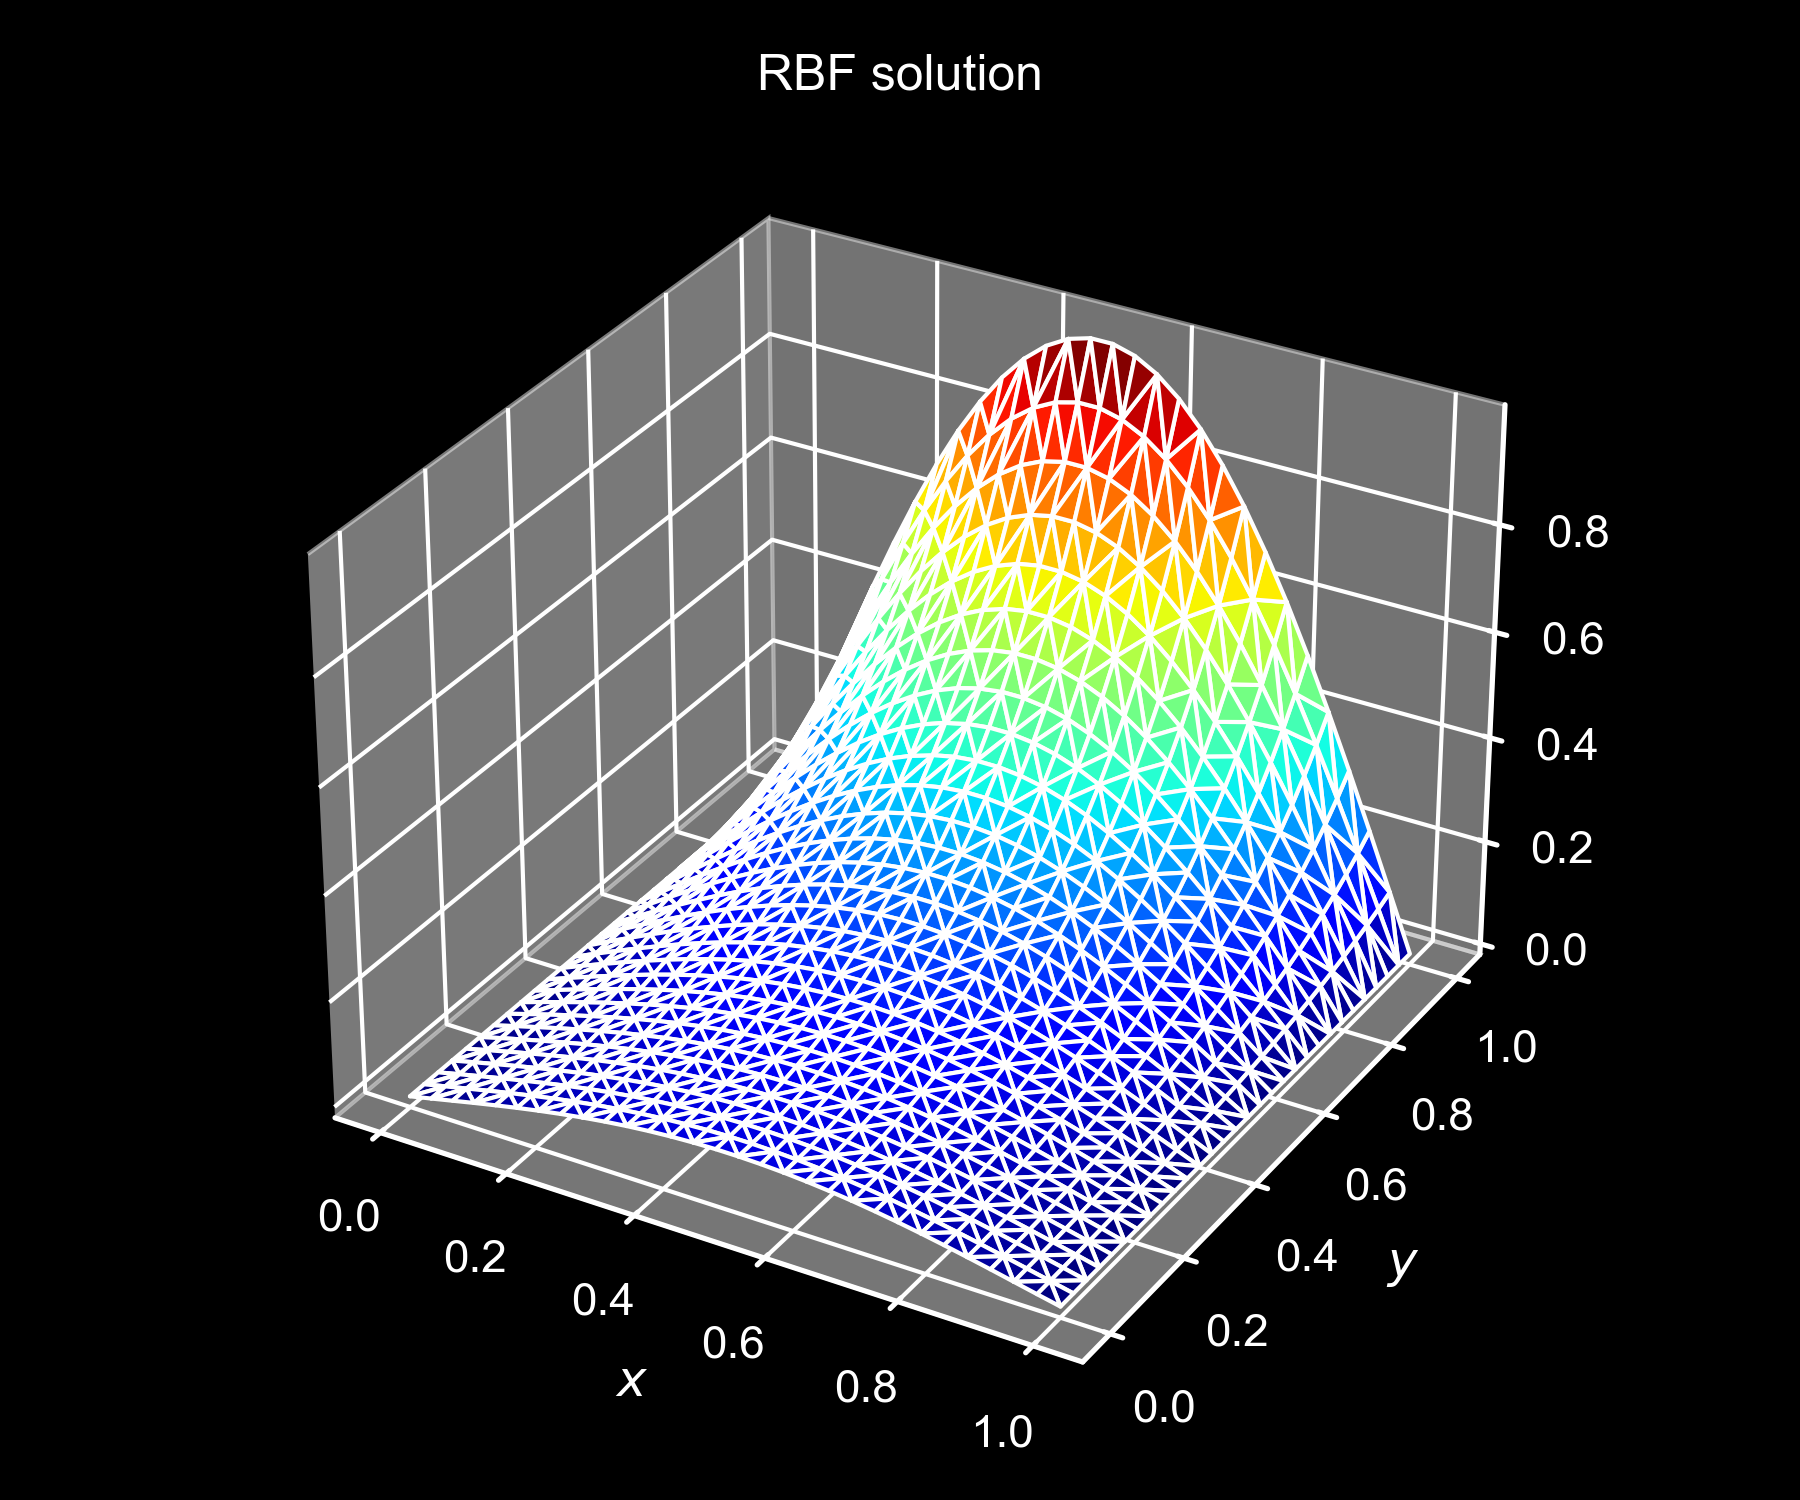
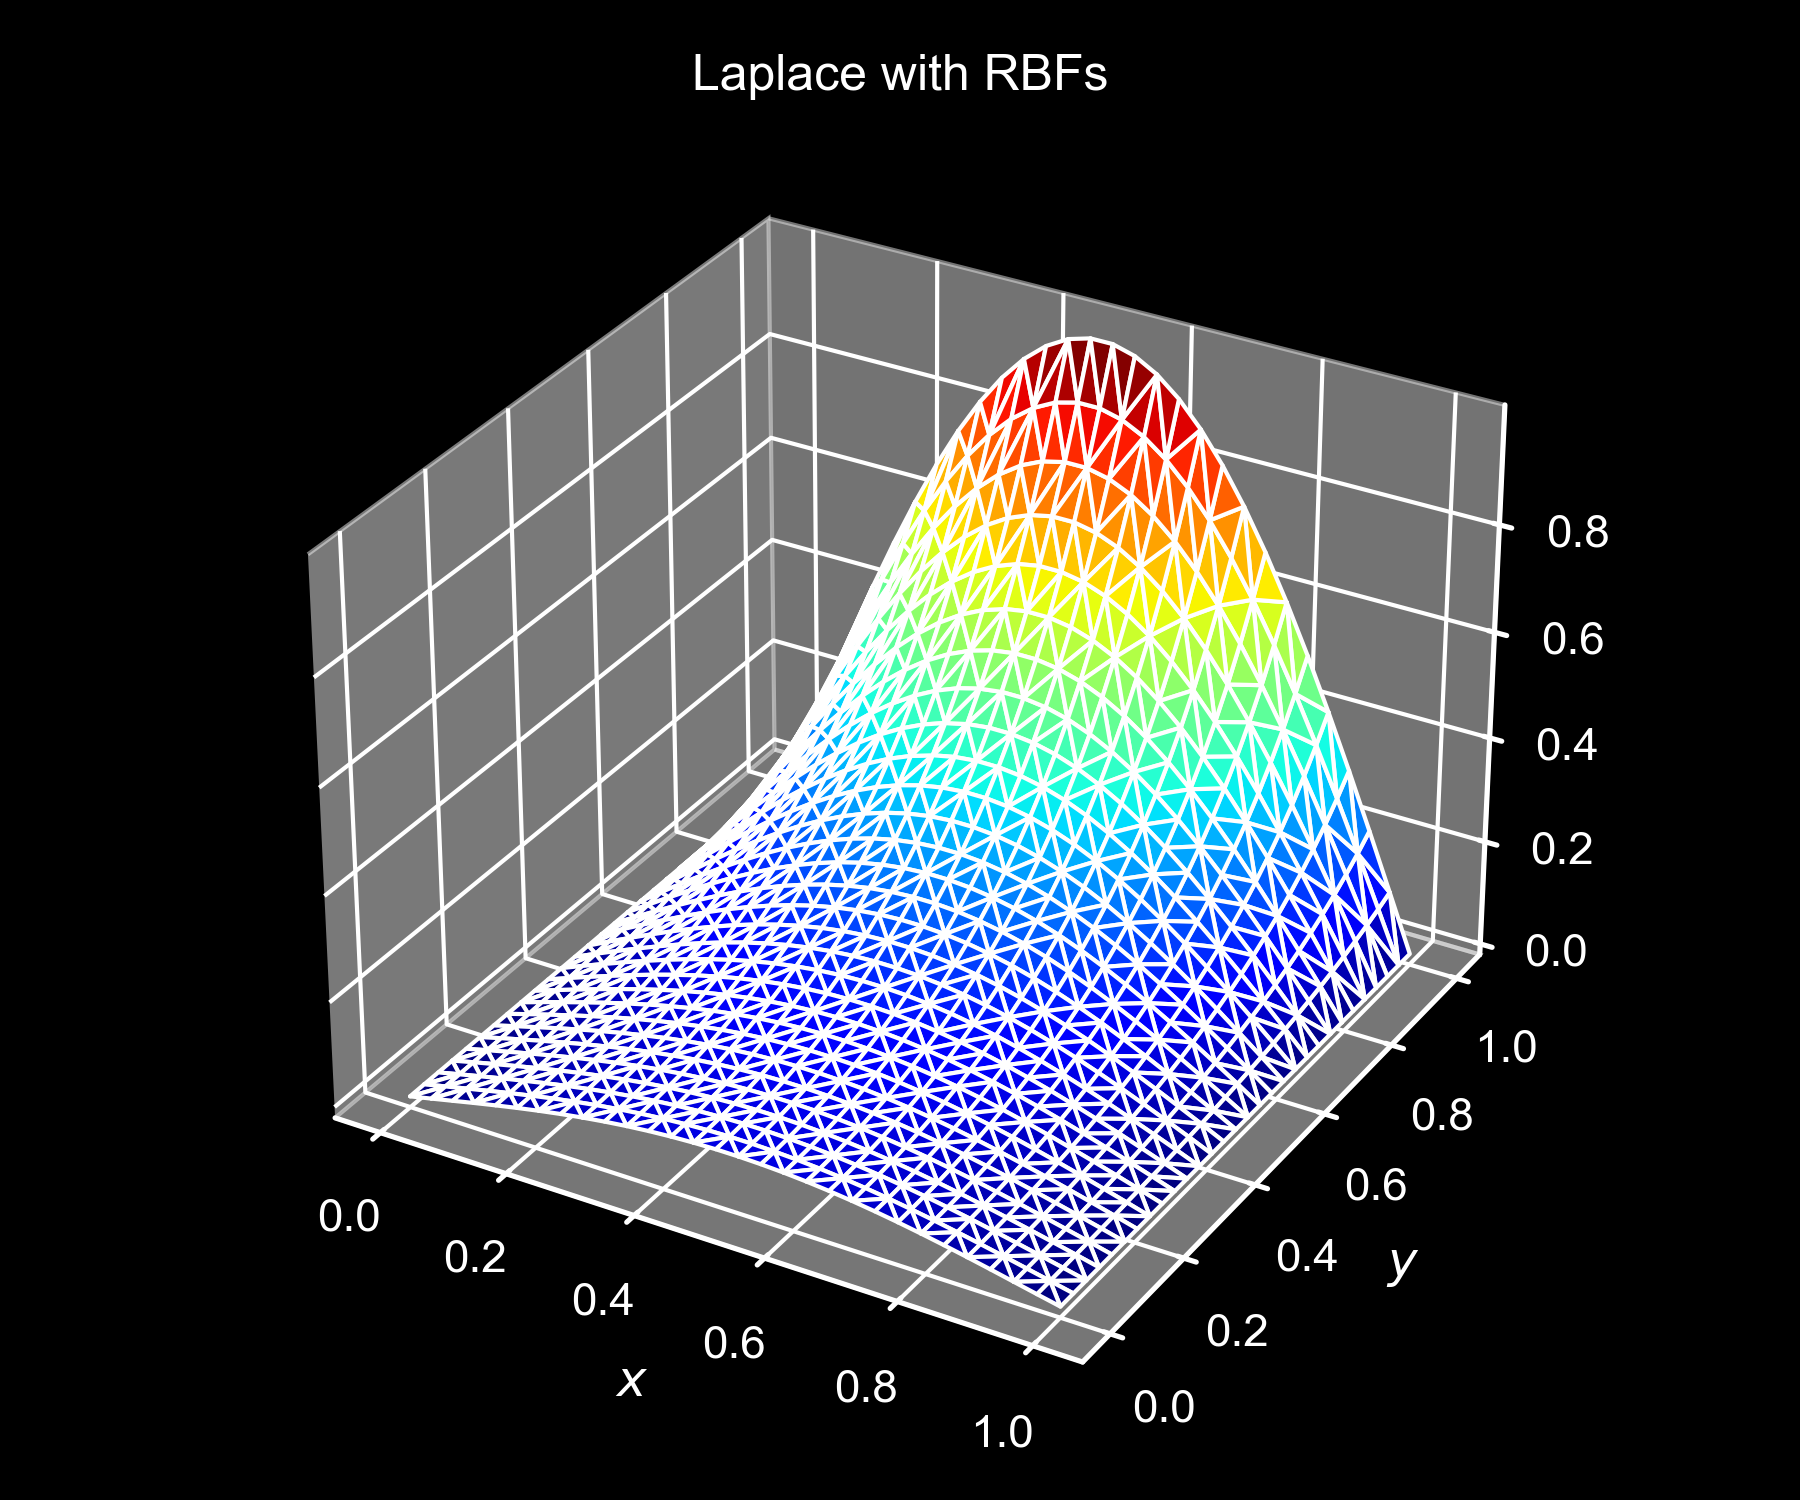
Uploading project to PyPI

Changed region(s): [[0.3733, 0.0307, 0.6222, 0.0613], [0.7467, 0.6133, 0.7778, 0.644]]

diff --git a/demos/Burgers/01_burgers_ode.py b/demos/Burgers/01_burgers_ode.py
@@ -59,7 +59,6 @@ MAX_DEGREE = 2
 
 # DT = 1e-3
 NB_TIMESTEPS = 200
-PLOT_EVERY = 2
 
 Nx = 10
 Ny = 10
@@ -142,43 +141,12 @@ def burgers_vector_field(t, U, *args):
 
 
 
-def RK4(fun, t_span, y0, *args, t_eval=None, subdivisions=1, **kwargs):
-    """ Perform numerical integration with a time step divided by the evaluation subdivision factor (Not necessarily equally spaced). If we get NaNs, we can try to increasing the subdivision factor for finer time steps."""
-    if t_eval is None:
-        if t_span[0] is None:
-            t_eval = jnp.array([t_span[1]])
-            raise Warning("t_span[0] is None. Setting t_span[0] to 0.")
-        elif t_span[1] is None:
-            raise ValueError("t_span[1] must be provided if t_eval is not.")
-        else:
-            t_eval = jnp.array(t_span)
-
-    hs = t_eval[1:] - t_eval[:-1]
-    t_ = t_eval[:-1, None] + jnp.arange(subdivisions)[None, :]*hs[:, None]/subdivisions
-    t_solve = jnp.concatenate([t_.flatten(), t_eval[-1:]])
-    eval_indices = jnp.arange(0, t_solve.size, subdivisions)
-
-    def step(state, t):
-        t_prev, y_prev = state
-        h = t - t_prev
-        k1 = h * fun(t_prev, y_prev, *args)
-        k2 = h * fun(t_prev + h/2., y_prev + k1/2., *args)
-        k3 = h * fun(t_prev + h/2., y_prev + k2/2., *args)
-        k4 = h * fun(t + h, y_prev + k3, *args)
-        y = y_prev + (k1 + 2*k2 + 2*k3 + k4) / 6.
-        return (t, y), y
-
-    _, ys = jax.lax.scan(step, (t_solve[0], y0), t_solve[:])
-    return ys[eval_indices, :]
-
-
-
 
 start = time.time()
 
 U0 = jnp.concatenate([u0, v0])
 
-t_span = [0, 1]
+t_span = [0, 20]
 t_eval = jnp.linspace(0, *t_span, NB_TIMESTEPS+1)
 Us = RK4(burgers_vector_field, t_span=t_span, y0=U0, t_eval=t_eval, subdivisions=1)
 
@@ -196,11 +164,11 @@ print(f"Walltime: {minutes} minutes {seconds:.2f} seconds")
 
 
 # %%
-ulist = Us[::NB_TIMESTEPS//10, :Nx*Ny]
-filename = DATAFOLDER + "burgers_rk4_u.mp4"
-cloud.animate_fields([ulist], cmaps="coolwarm", filename=filename, levels=200, duration=10, figsize=(7.5,6), titles=["Burgers with RBFs - u"]);
+ulist = Us[::NB_TIMESTEPS//200, :Nx*Ny]
+filename = DATAFOLDER + "burgers_rk4_u.gif"
+cloud.animate_fields([ulist], cmaps="coolwarm", filename=filename, levels=200, duration=5, figsize=(7.5,6), titles=["Burgers with RBFs"]);
 
-U_norm = Us[::NB_TIMESTEPS//10].reshape(-1, 2, Nx*Ny)
-normlist = jnp.linalg.norm(U_norm, axis=1)
-filename = DATAFOLDER + "burgers_rk4_norm.mp4"
-cloud.animate_fields([normlist], cmaps="coolwarm", filename=filename, levels=200, duration=10, figsize=(7.5,6), titles=["Burgers with RBFs - norm"]);
+# U_norm = Us[::NB_TIMESTEPS//10].reshape(-1, 2, Nx*Ny)
+# normlist = jnp.linalg.norm(U_norm, axis=1)
+# filename = DATAFOLDER + "burgers_rk4_norm.mp4"
+# cloud.animate_fields([normlist], cmaps="coolwarm", filename=filename, levels=200, duration=10, figsize=(7.5,6), titles=["Burgers with RBFs - norm"]);

diff --git a/demos/Laplace/00_laplace_with_rbf.py b/demos/Laplace/00_laplace_with_rbf.py
@@ -134,16 +134,16 @@ print("MSE on Neumann boundary:", jnp.mean(error_neumann**2))
 
 
 
-### Visualisation
-fig = plt.figure(figsize=(6*3,5))
-ax1= fig.add_subplot(1, 3, 1, projection='3d')
-ax2 = fig.add_subplot(1, 3, 2, projection='3d')
-ax3 = fig.add_subplot(1, 3, 3, projection='3d')
-cloud.visualize_field(rbf_sol, cmap="jet", projection="3d", title="RBF solution", ax=ax1);
-cloud.visualize_field(exact_sol, cmap="jet", projection="3d", title="Analytical solution", ax=ax2);
-# cloud.visualize_field(exact_sol, cmap="jet", projection="2d", title="Analytical solution", ax=ax2);
-cloud.visualize_field(error, cmap="magma", projection="3d", title="MSE error", ax=ax3);
-plt.show()
+# ### Visualisation
+# fig = plt.figure(figsize=(6*3,5))
+# ax1= fig.add_subplot(1, 3, 1, projection='3d')
+# ax2 = fig.add_subplot(1, 3, 2, projection='3d')
+# ax3 = fig.add_subplot(1, 3, 3, projection='3d')
+# cloud.visualize_field(rbf_sol, cmap="jet", projection="3d", title="RBF solution", ax=ax1);
+# cloud.visualize_field(exact_sol, cmap="jet", projection="3d", title="Analytical solution", ax=ax2);
+# # cloud.visualize_field(exact_sol, cmap="jet", projection="2d", title="Analytical solution", ax=ax2);
+# cloud.visualize_field(error, cmap="magma", projection="3d", title="MSE error", ax=ax3);
+# plt.show()
 
 
 ## Write stuff to tensorboard
@@ -157,9 +157,9 @@ plt.show()
 # writer.close()
 
 # %%
-# fig = plt.figure(figsize=(6*1,5))
-# ax= fig.add_subplot(1, 1, 1, projection='3d')
-# cloud.visualize_field(rbf_sol, cmap="jet", projection="3d", title="RBF solution", ax=ax);
-# plt.show()
-# ## Savefig
-# fig.savefig(DATAFOLDER+"laplace.png", dpi=300)
+fig = plt.figure(figsize=(6*1,5))
+ax= fig.add_subplot(1, 1, 1, projection='3d')
+cloud.visualize_field(rbf_sol, cmap="jet", projection="3d", title="Laplace with RBFs", ax=ax);
+plt.show()
+## Savefig
+fig.savefig(DATAFOLDER+"laplace.png", dpi=300)

diff --git a/demos/Advection/01_adv_diff_periodic.py b/demos/Advection/01_adv_diff_periodic.py
@@ -39,7 +39,7 @@ PLOT_EVERY = 10
 
 ## Diffusive constant
 K = 0.08
-VEL = jnp.array([-100.0, 0.0])
+VEL = jnp.array([100.0, 0.0])
 
 Nx = 25
 Ny = 25
@@ -70,7 +70,7 @@ def my_diff_operator(x, center=None, rbf=None, monomial=None, fields=None):
     return (val/DT) + jnp.dot(VEL, grad) - K*lap
 
 def my_rhs_operator(x, centers=None, rbf=None, fields=None):
-    return value(x, fields[:,0], centers, RBF) / DT     ## TODO value ?
+    return value(x, fields[:,0], centers, rbf) / DT
 
 d_zero = lambda x: 0.
 boundary_conditions = {"South":d_zero, "West":d_zero, "North":d_zero, "East":d_zero}
@@ -87,7 +87,7 @@ boundary_conditions = {"South":d_zero, "West":d_zero, "North":d_zero, "East":d_z
 def gaussian(x, y, x0, y0, sigma):
     return jnp.exp(-((x-x0)**2 + (y-y0)**2) / (2*sigma**2))
 xy = cloud.sorted_nodes
-u0 = gaussian(xy[:,0], xy[:,1], 0.75, 0.5, 1/10)
+u0 = gaussian(xy[:,0], xy[:,1], 0.35, 0.5, 1/10)
 
 
 
@@ -104,7 +104,7 @@ ulist = [u]
 start = time.time()
 
 for i in range(1, NB_TIMESTEPS+1):
-    ufield = pde_solver(diff_operator=my_diff_operator,
+    ufield = pde_solver_jit(diff_operator=my_diff_operator,
                         rhs_operator = my_rhs_operator,
                         rhs_args=[u],
                         cloud = cloud,

diff --git a/demos/Burgers/00_burgers.py b/demos/Burgers/00_burgers.py
@@ -34,7 +34,7 @@ RBF = partial(polyharmonic, a=3)
 MAX_DEGREE = 2
 
 DT = 1e-3
-NB_TIMESTEPS = 200
+NB_TIMESTEPS = 100
 PLOT_EVERY = 20
 
 ## Diffusive constant
@@ -155,12 +155,12 @@ print(f"Walltime: {minutes} minutes {seconds:.2f} seconds")
 # %%
 
 ulist = [sol[0] for sol in sol_list]
-filename = DATAFOLDER + "burgers_u.mp4"
-cloud.animate_fields([ulist], cmaps="coolwarm", filename=filename, levels=200, duration=10, figsize=(7.5,6), titles=["Burgers with RBFs - u"]);
+filename = DATAFOLDER + "burgers_u.gif"
+cloud.animate_fields([ulist[:65:2]], cmaps="coolwarm", filename=filename, levels=200, duration=5, figsize=(7.5,6), titles=["Burgers with RBFs"]);
 
-normlist = [jnp.sqrt(sol[0]**2 + sol[1]**2) for sol in sol_list]
-filename = DATAFOLDER + "burgers_norm.mp4"
-cloud.animate_fields([normlist], cmaps="coolwarm", filename=filename, levels=200, duration=10, figsize=(7.5,6), titles=["Burgers with RBFs - norm"]);
+# normlist = [jnp.sqrt(sol[0]**2 + sol[1]**2) for sol in sol_list]
+# filename = DATAFOLDER + "burgers_norm.mp4"
+# cloud.animate_fields([normlist], cmaps="coolwarm", filename=filename, levels=200, duration=10, figsize=(7.5,6), titles=["Burgers with RBFs - norm"]);
 
 
 # %%

diff --git a/updes/cloud.py b/updes/cloud.py
@@ -270,8 +270,8 @@ class Cloud(object):
 
 
     def animate_fields(self, fields, filename=None, titles="Field", xlabel=r'$x$', ylabel=r'$y$', levels=50, figsize=(6,5), cmaps="jet", cbarsplit=50, duration=5, **kwargs):
-        import matplotlib
-        matplotlib.use('Agg')
+        import matplotlib as mpl
+        mpl.use('Agg')
         import matplotlib.pyplot as plt
         from matplotlib.animation import FuncAnimation
         """Animation of each field in the list of fields on the cloud of points"""
@@ -343,6 +343,9 @@ class Cloud(object):
             writer = 'ffmpeg' if filename.endswith('.mp4') else 'pillow'
             anim.save(filename, writer=writer, fps=fps)
             print("Animation sucessfully saved at:", filename)
+
+        # ## Reset the backend to one that has GUI support
+        # mpl.use('Qt5Agg')
 
         return ax
 

diff --git a/updes/assembly.py b/updes/assembly.py
@@ -459,6 +459,7 @@ def assemble_q(operator:callable, boundary_conditions:dict, cloud:Cloud, rbf:cal
                 fields_coeffs.append(core_compute_coefficients(field, cloud, rbf, M))
             else:
                 fields_coeffs.append(field)
+        fields_coeffs = jnp.stack(fields_coeffs, axis=-1)
     else:
         fields_coeffs = None
 
@@ -467,7 +468,6 @@ def assemble_q(operator:callable, boundary_conditions:dict, cloud:Cloud, rbf:cal
     nodes = cloud.sorted_nodes
     internal_ids = jnp.arange(Ni)
     q = q.at[internal_ids].set(operator_vec(nodes[internal_ids], nodes, rbf, fields_coeffs))
-
 
     ## Facet nodes
     for f_id in cloud.facet_types.keys():

diff --git a/updes/config.py b/updes/config.py
@@ -5,11 +5,11 @@ import jax.numpy as jnp
 RBF = None          ## Default radial basis function
 MAX_DEGREE = None              ## Max degree for monomials
 DIM = 2                     ## Default problem dimension
-__version__ = "0.1.0"       ## Package version  ## TODO check if okay to do this here
+__version__ = "1.0.0"       ## Package version  ## TODO check if okay to do this here
 
 PREALLOCATE = False
 if not PREALLOCATE:
-    os.environ['XLA_PYTHON_CLIENT_PREALLOCATE'] = "false"       ## Preallocate 90% of memory
+    os.environ['XLA_PYTHON_CLIENT_PREALLOCATE'] = "false"
 
 
 FLOAT64 = True

diff --git a/README.md b/README.md
@@ -1,23 +1,23 @@
 # 𝕌pdes
 
-𝕌pdes is a general-purpose library for mesh-free PDE simulation and control. __𝕌pdes__ stands for Universal(__𝕌__) Partial Differential Equations (__PDE__) Simulator(__S__). There is no faster way to run your PDE than to use Updes !
+𝕌pdes is a general-purpose library for mesh-free PDE simulation and control. There is no faster way to explore the realm of PDEs !
 
 
 ## Features
-𝕌pdes is equipped with the following features:
+𝕌pdes leverages Radial Basis Functions (RBFs) and JAX to provide the following features:
 - User-centric design: no need to re-implement a solver for each new PDE
 - Lightning fast mesh-free simulation via Radial Basis Functions
 - Robust differentiable simulation via JAX, and portable across CPU, GPU, and TPU
 - Support for Dirichlet, Neumann, Robin, and Periodic boundary conditions
 - Automatic generation of normals from 2D GMSH meshes
 
-𝕌pdes in incredibly extendable, and additional features will be added soon.
+𝕌pdes in incredibly extendable, with additional features added frequently.
 
 
 ## Getting started
 The package is available on PyPi. You can install it with
 ```
-pip install Updes
+pip install updes
 ```
 
 The example below illustrates how to solve the Laplace equation with Dirichlet and Neumann boundary conditions:
@@ -25,13 +25,11 @@ The example below illustrates how to solve the Laplace equation with Dirichlet a
 from updes import *
 import jax.numpy as jnp
 
-## Boundary condition type for each side of the square
+# Create a mesh-free cloud of points on a unit square
 facet_types={"South":"n", "West":"d", "North":"d", "East":"d"}
-
-## Create a mesh-free square cloud of points
 cloud = SquareCloud(Nx=30, Ny=20, facet_types=facet_types)
 
-## Define the differential operator (left-hand side of the PDE)
+# Define the differential operator (left-hand side of the PDE)
 def my_diff_operator(x, center=None, rbf=None, monomial=None, fields=None):
     return nodal_laplacian(x, center, rbf, monomial)
 
@@ -39,20 +37,20 @@ def my_diff_operator(x, center=None, rbf=None, monomial=None, fields=None):
 def my_rhs_operator(x, centers=None, rbf=None, fields=None):
     return 0.0
 
-## Set a sin function as the Dirichlet BC on the North, and zero everywhere else
+# Set a sin function as the Dirichlet BC on the North, and zero everywhere else
 d_north = lambda coord: jnp.sin(jnp.pi * coord[0])
 d_zero = lambda coord: 0.0
 boundary_conditions = {"South":d_zero, "West":d_zero, "North":d_north, "East":d_zero}
 
-## Solve the Laplace equation with a JIT-compiled solver
+# Solve the Laplace equation with a JIT-compiled solver
 sol = pde_solver_jit(diff_operator=my_diff_operator, 
-                    rhs_operator = my_rhs_operator, 
-                    cloud = cloud, 
-                    boundary_conditions = boundary_conditions, 
+                    rhs_operator=my_rhs_operator, 
+                    cloud=cloud, 
+                    boundary_conditions=boundary_conditions, 
                     rbf=polyharmonic,
                     max_degree=1)
 
-## Visualize the solution
+# Visualize the solution
 cloud.visualize_field(sol.vals, cmap="jet", projection="3d", title="RBF solution");
 ```
 
@@ -63,8 +61,8 @@ cloud.visualize_field(sol.vals, cmap="jet", projection="3d", title="RBF solution
 <table>
   <tr>
     <th><img src="docs/assets/laplace.png" width="180"></th>
-    <th><img src="docs/assets/advection_diffusion.gif" width="300"></th>
-    <th><img src="docs/assets/burgers_rk4_u.gif" width="188"></th>
+    <th><img src="docs/assets/advection_diffusion.gif" width="350"></th>
+    <th><img src="docs/assets/burgers_u.gif" width="188"></th>
   </tr>
 </table>
 
@@ -76,7 +74,7 @@ cloud.visualize_field(sol.vals, cmap="jet", projection="3d", title="RBF solution
     - Integration with Neural Networks and Equinox
     - Non-linear and multi-dimensional PDEs
     - Adjoint schemes for fluid flows
-- Better cloud points generation with accurate geometry and normals: 
+- Better point generation with accurate geometry and normals: 
     - USD format
     - Gmsh tutorial
 - Add support for 3D radial basis functions

diff --git a/docs/README.md b/docs/README.md
@@ -11,3 +11,17 @@ Done with QuartoDoc. Three steps to build and deploy the documentation website:
 ## Interactive example with Shiny for Python
 - Interactive cells: https://shiny.posit.co/py/
 - Code at: https://github.com/posit-dev/py-shiny/tree/main/docs
+
+
+
+## Building and deploying to PiPI
+General steps for creating a new release: https://carpentries-incubator.github.io/python_packaging/instructor/05-publishing.html
+
+
+- pip install build
+- python3 -m build
+- pip install twine
+- twine check dist/*
+- Add PyPI token to ~/.pypirc
+- twine upload --repository testpypi dist/*
+- twine upload dist/*
